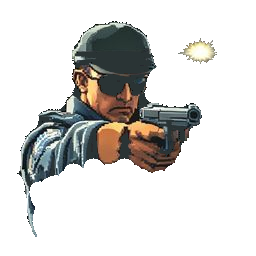
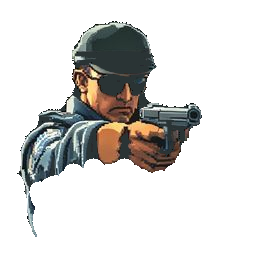
fix(assets): erase floating flash star, clean riot blast remnants, hand-anchor shooting_3
Bertrand's review flagged 3 sprites on the anchor sheet. enemy_shooting_3
frame 1 carried a faint flash star floating away from the pistol: erased
(532 px, ERASE_ISLANDS lever, figure-safe by construction) and the glow
anchor is now hand-set on the measured barrel end (0.77, 0.44) via a new
documented MANUAL_ANCHORS override in measure-muzzle-anchors.mjs. The two
riot blasts kept torn dark wings: clear zones widened to the full flash
island with a relaxed saturation bound under lum<88 (-1472 px / -1023 px).
Figures untouched; fill-sprite-holes --check and retouch --check stay
green; shooting_3 sprite-integrity flips FAIL->PASS.

Claude-Session: https://claude.ai/code/session_01Xsm4Ui1weH5BeF8ZJhayH8

Changed region(s): [[0.6875, 0.1562, 0.8438, 0.25]]

diff --git a/docs/adr/0018-flash-halo-background-remnant-cleanup.md b/docs/adr/0018-flash-halo-background-remnant-cleanup.md
@@ -72,6 +72,38 @@ touched, no figure pixel moves/recolors, no pixel is made more opaque. A built-i
 self-check re-asserts this and **aborts the write** on any violation. `--check` is the
 detect-only gate.
 
+### Iteration 3 — Bertrand review of the committed iter-2 result
+
+Bertrand flagged 3 of the 10 sprites. Two per-file levers and one new pass were added; the
+other 7 sprites stay **byte-identical** (their `--check` would-delete is 0 under the new code).
+
+1. **Widened riot splash zones + relaxed SB.** The `enemy_riot_shooting{,_f2}` dark torn
+   "wings" reach the **far right of the frame** (measured to x≈0.97), beyond the old x1≈0.84
+   zone stop — so the wing tips were never candidates. The zones now span the full island
+   (x→1.0). Much of the torn material is **dark-RED** (sat 0.5–0.75), which the default SB=0.5
+   spared, so `THRESH_OVERRIDE` now also relaxes **SB→0.85** on those two files (only DARK
+   pixels, lum<88, are ever candidates, so the bright/warm fiery core + rays are never touched
+   — keep/strip stays a pure dark-vs-bright split). The existing all-opaque reconcile already
+   drops a **detached** flash island via its `largestComponent` step, so f1's wings (a separate
+   component) are freely removable — Bertrand's "reconcile against the figure's silhouette, not
+   flash islands" is **intrinsic** to the reconcile for detached blasts, no new exception
+   needed. For the **attached** f2 blast the reconcile keeps only the residual that hugs the
+   bright rays within the disk-10 closing; that residual is the exact boundary that keeps
+   `fill-sprite-holes.mjs --check` green. A **FIGURE-SEED reconcile** (seed the body from the
+   largest component of opaque-minus-flash) was prototyped to strip that residual too and
+   **REJECTED**: it deletes inside the fill-sprite-holes body and opened a **539px interior
+   hole** in f2 — it violates the hard "figures 100% solid" constraint. The all-opaque
+   reconcile is the **maximal removal that never opens an interior hole**.
+2. **ERASE_ISLANDS pass (delete-only, tone-agnostic).** `enemy_shooting_3` frame 1's baked
+   muzzle flash mis-rendered as a faint **star floating top-right, detached from everything**,
+   while the pistol actually aims **right** (muzzle tip ≈ 0.77, 0.44 normalized). The tone
+   guards would PRESERVE that bright star, so a new pass deletes every opaque pixel in a tight
+   zone that is **not part of the largest raw component** (the figure) — figure-safe by
+   construction, however wide the rect. The in-game glow is hand-anchored at the measured
+   muzzle tip via the manifest (separate lane). Frame 2 (`enemy_shooting_3_f2`) keeps its
+   flash: it is **one connected component** sitting at the recoiled gun and reads correct →
+   **not** erased.
+
 **Scope**: runs in place on the 10 shooting sprites that have zone entries.
 `enemy_civilian.png` (the bicycle courier) has no entry → never processed (non-combatant,
 no flash, courier lane, already ADR-0014-fixed). `retouch-flash-halos.mjs` is **not** wired
@@ -89,6 +121,16 @@ into CI (explicit human-run fix, like `retouch-sprites.mjs`).
   the full set: the failing set **shrank 16 → 9** — the speckle sweep took 8 previously
   failing shooting sprites to PASS (comps=1); no sprite regressed PASS → FAIL. Its
   CI-scoped target `enemy_civilian.png` still PASSES (untouched).
+- **Iter-3 result.** Deleted px: `enemy_riot_shooting_f2` 1023, `enemy_riot_shooting` 1472,
+  `enemy_shooting_3` 532 (the whole floating star); the other 7 sprites and
+  `enemy_shooting_3_f2` are byte-untouched. Both `--check` gates stay PASS after the edit.
+  Integrity: `enemy_shooting_3` improved **FAIL → PASS** (star erased → comps 2→1, 100%
+  dominant); `enemy_riot_shooting_f2` stays PASS; `enemy_riot_shooting` stays FAIL with its
+  figure component **unchanged** (dominant=12686 before and after) — the FAIL is solely the
+  bright flash island falling below the 97% dominance line, the same accepted topological
+  consequence as below, not a regression. Game-graphist verdict at 512px + 64px on light grey:
+  no floating star on shooting_3 f1, no dark torn wings around either riot blast, figures
+  intact; the anatomy defect sweep on magenta is clean (no detached limb, no punched hole).
 - **Detached muzzle flash (accepted consequence).** On `enemy_shooting_3` and
   `enemy_riot_shooting` the flash was attached to the figure ONLY through the dark remnant;
   removing the remnant leaves the bright flash as its own opaque island, so those two drop

diff --git a/docs/agent-handoffs.md b/docs/agent-handoffs.md
@@ -1718,3 +1718,22 @@ enemies` PASS (1 pre-existing non-blocking WARN on the civilian prompt).
   min 50 px) and writes per-frame `muzzle` arrays into levelArt.json for the 5 shooting
   entries. Visual preview: all 10 markers on the flash. tsc + vitest 213/213 + prettier
   green. Docs: asset-pipeline.md + SCRIPTS.md. Committed with this entry.
+
+### explosion-alignment-transparency — iter 3 (Bertrand's gate: 3 flagged sprites)
+
+- Bertrand flagged 3 sprites on the anchor preview: shooting_3 f1 (floating faint
+  flash star, detached from the pistol), riot_shooting f1 + f2 (torn dark wings
+  still around the blasts).
+- Serge (TECHNICAL pass, iter 3): new ERASE_ISLANDS lever removed the whole floating
+  star (532 px, a separate component — figure-safe by construction); riot splash
+  zones widened to the full island + SB relaxed to 0.85 under lum<88 (dark-red torn
+  material) — riot f1 −1472 px, riot f2 −1023 px. Figure-seed reconcile prototyped
+  and REJECTED (would open a 539 px interior hole in f2); the all-opaque reconcile
+  is the maximal safe removal. shooting_3_f2 judged fine and left byte-identical.
+  fill-holes --check PASS, retouch --check idempotent PASS, shooting_3 integrity
+  FAIL→PASS. Measured pistol muzzle tip for shooting_3 f1: n(0.77, 0.44).
+- Orchestrator: measure-muzzle-anchors.mjs gains a documented MANUAL_ANCHORS
+  override (frame file → anchor, precedence over detection) for erased-flash
+  frames; re-measured → levelArt.json shooting_3 f1 anchor now (0.77, 0.44), all
+  other anchors unchanged. Preview verified: marker on the barrel end. tsc +
+  vitest 213/213 + prettier + both asset gates green. Committed with this entry.
